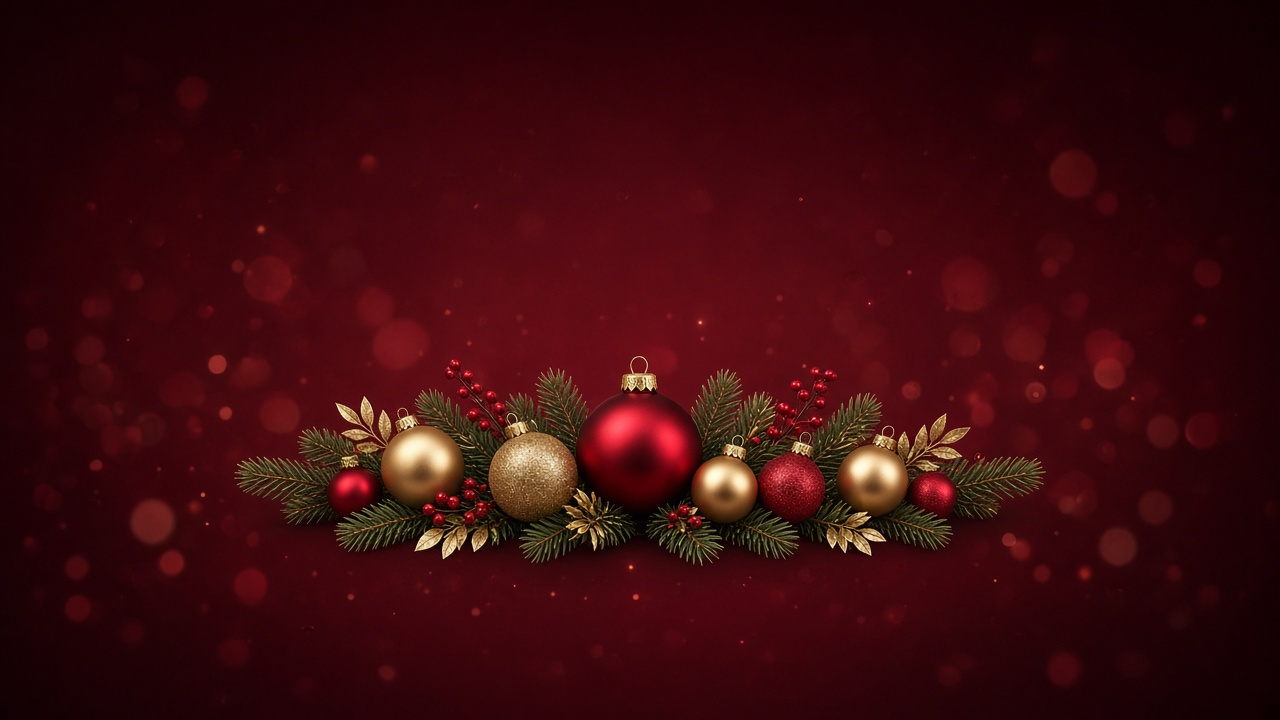
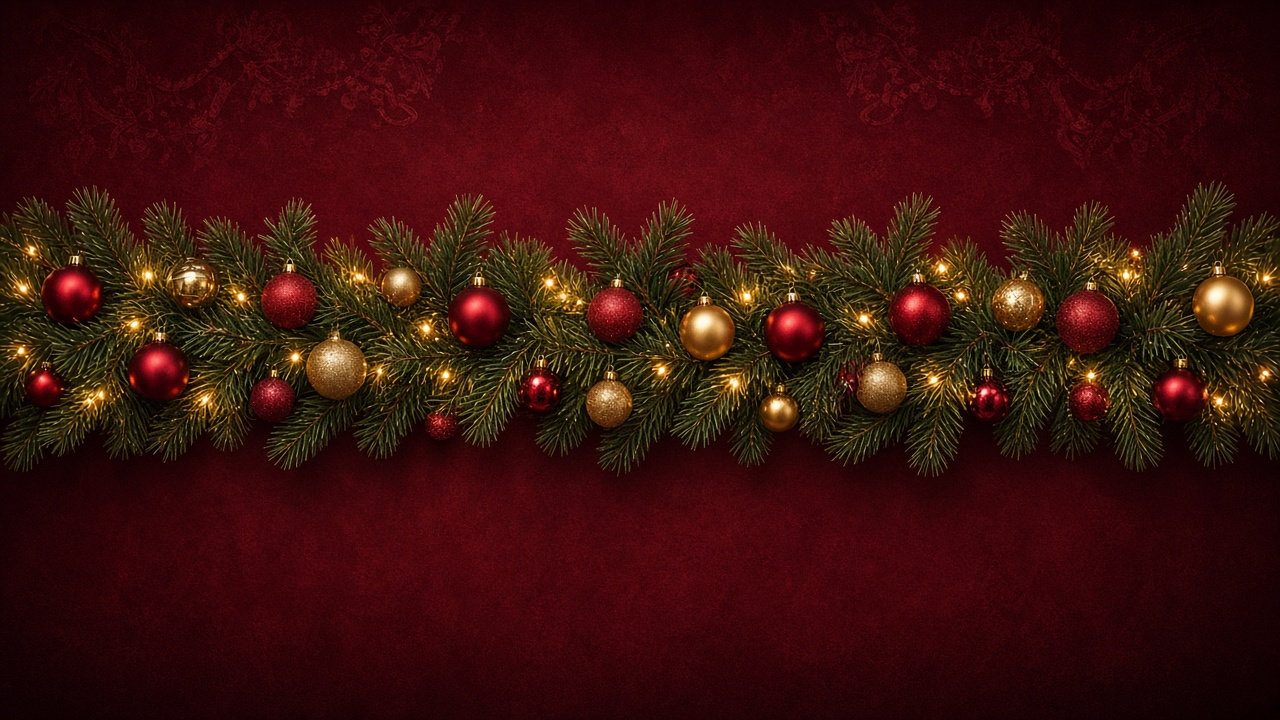
Widen and lower the player decoration garland
Replace the sample decoration with a panoramic garland banner and
give the strip more width and bottom spacing on the player page.

diff --git a/wwwroot/css/site.css b/wwwroot/css/site.css
@@ -507,24 +507,32 @@ textarea {
 .decoration-strip {
   display: flex;
   justify-content: center;
-  padding: 0 1.5rem 2.5rem;
+  width: 100%;
+  margin-top: 2.75rem;
+  padding: 1.25rem 0 3.5rem;
 }
 
 .decoration-strip img {
-  max-height: 72px;
-  width: auto;
-  filter: drop-shadow(0 8px 16px rgba(0, 0, 0, 0.35));
-  animation: sway 4.5s ease-in-out infinite;
+  display: block;
+  width: min(1120px, 96vw);
+  max-width: 100%;
+  height: auto;
+  max-height: 140px;
+  object-fit: cover;
+  object-position: center;
+  border-radius: 10px;
+  filter: drop-shadow(0 10px 22px rgba(0, 0, 0, 0.4));
+  animation: garlandFloat 5.5s ease-in-out infinite;
 }
 
-@keyframes sway {
-  0%, 100% { transform: rotate(-2deg); }
-  50% { transform: rotate(2deg); }
+@keyframes garlandFloat {
+  0%, 100% { transform: translateY(0); }
+  50% { transform: translateY(4px); }
 }
 
 .site-footer {
-  margin-top: auto;
-  padding: 1.5rem;
+  margin-top: 0;
+  padding: 0.75rem 1.5rem 1.75rem;
   text-align: center;
   opacity: 0.7;
   font-size: 0.85rem;
